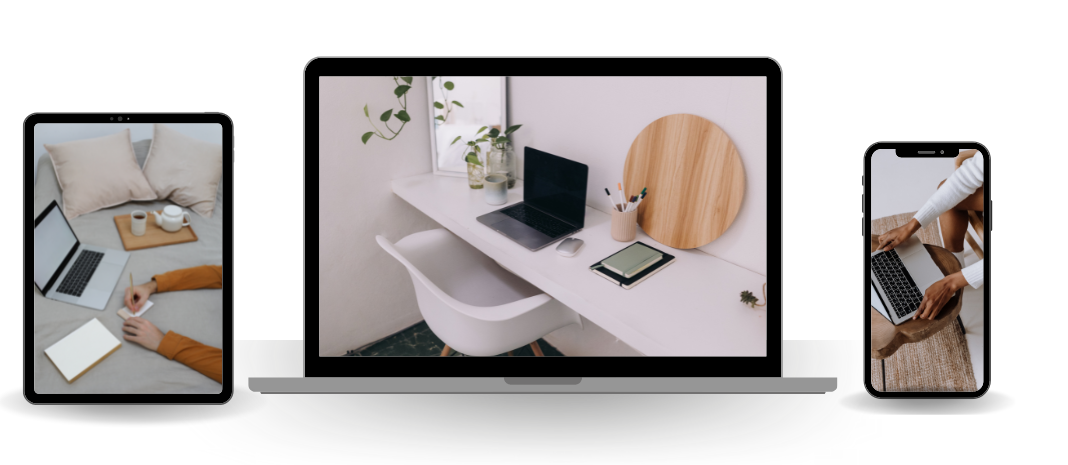
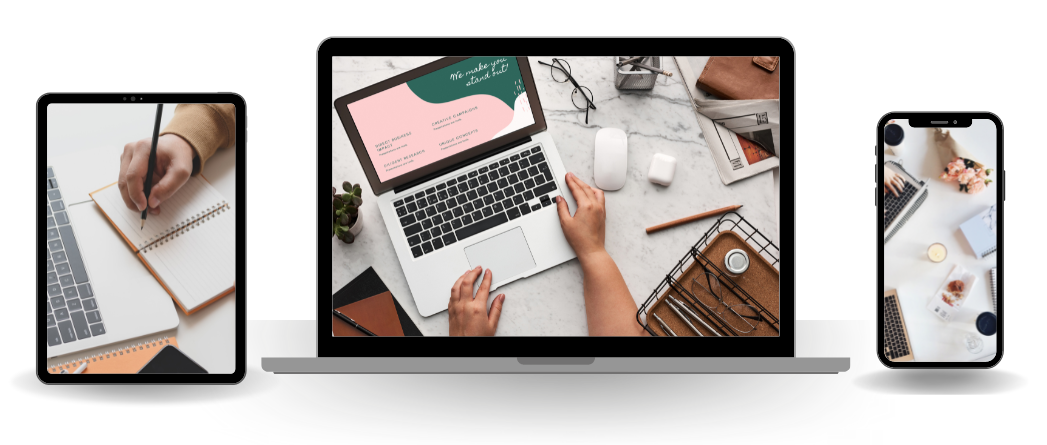
add our work section

diff --git a/narsite-server/src/main/kotlin/com/narbase/narnic/main/NarsiteLandingPage.kt b/narsite-server/src/main/kotlin/com/narbase/narnic/main/NarsiteLandingPage.kt
@@ -108,6 +108,7 @@ class NarsiteLandingPage {
                     verticalFiller(200.px)
                     whatWeDoView()
                     suitsYourNeedsSection()
+                    ourWorkSection()
                 }
                 landingPageFooter()
             }
@@ -512,7 +513,48 @@ class NarsiteLandingPage {
             }
             attributes["src"] = "/public/img/devices-suits.png"
         }
+        verticalFiller(200.px)
 
+    }
+    private fun View.ourWorkSection() = verticalLayout {
+        style {
+            backgroundImage = "url(/public/img/global-back.png)"
+            width = matchParent
+            alignItems = Alignment.Center
+            backgroundSize = "cover"
+            backgroundRepeat = "no-repeat"
+            alignSelf = Alignment.Center
+        }
+        verticalFiller(200.px)
+        textView {
+            style {
+                fontSize = 32.px
+                fontWeight = "bold"
+                color = AppColors.white
+            }
+            text = "OUR WORK"
+        }
+
+        imageView {
+            style {
+                maxWidth = 30.percent
+            }
+            attributes["src"] = "/public/img/our-work-laptop.png"
+        }
+
+        verticalFiller(50.px)
+        textView {
+            style {
+                fontWeight = "300"
+                color = Color.white
+                maxWidth = 50.percent
+                textAlign = TextAlign.Center
+                fontSize = 18.px
+            }
+            text = "With more than 10 years experience in the mobile development industry, we promise that you will never need to search for apps developers ever again."
+        }
+
+        verticalFiller(200.px)
     }
 
     private fun View.softwareTypeViewWithIcon(icon: String, title: String) = horizontalLayout {
